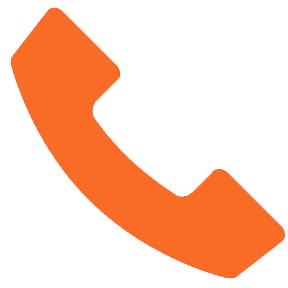
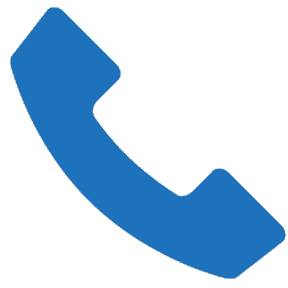
Update color

diff --git a/src/components/GeneratePDF.js b/src/components/GeneratePDF.js
@@ -38,7 +38,7 @@ const styles = StyleSheet.create({
     alignItems: 'center',
     fontSize: 12,
     marginBottom: 4,
-    color: '#f96b07',
+    color: '#1e72bb',
   },
   icon: {
     marginRight: 5,
